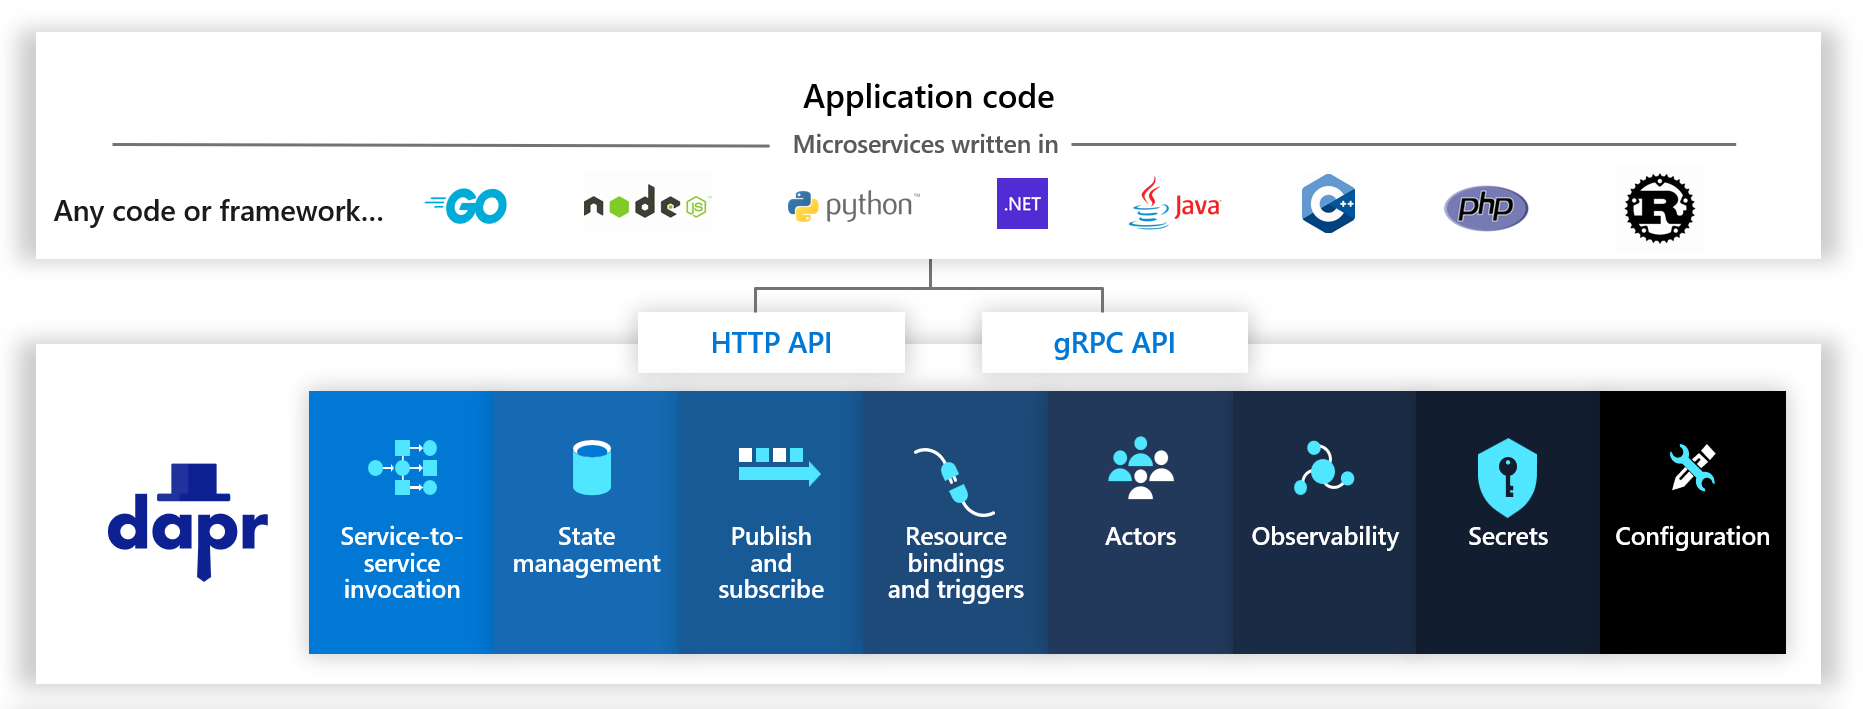
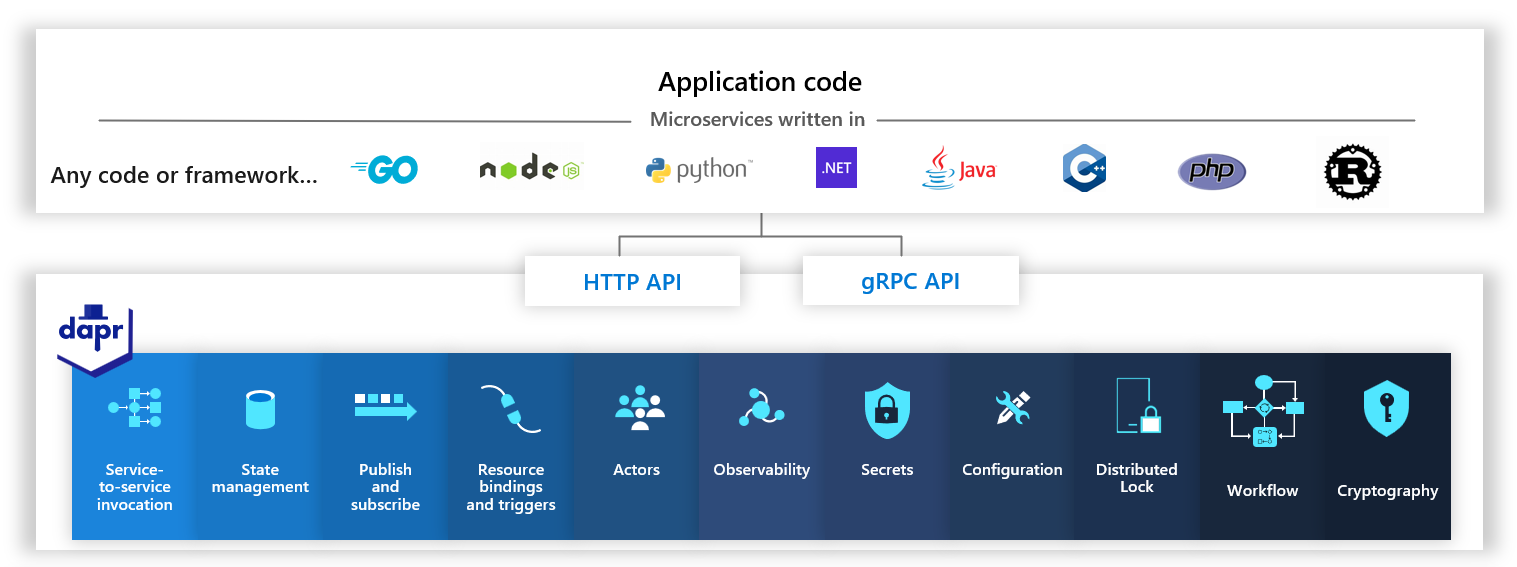
update diagram, loosen up intro

diff --git a/articles/aks/dapr-overview.md b/articles/aks/dapr-overview.md
@@ -3,15 +3,20 @@ title: Dapr extension for Azure Kubernetes Service (AKS) overview
 description: Learn more about using Dapr on your Azure Kubernetes Service (AKS) cluster to develop applications.
 ms.author: nickoman
 ms.topic: article
-ms.date: 10/11/2022
+ms.date: 07/07/2023
 ms.custom: event-tier1-build-2022
 ---
 
 # Dapr
 
-Distributed Application Runtime (Dapr) offers APIs that simplify microservice development and implementation. Running as a sidecar process in tandem with your applications, Dapr APIs abstract away common complexities developers regularly encounter when building distributed applications, such as service discovery, message broker integration, encryption, observability, and secret management. Whether your inter-application communication is direct service-to-service, or pub/sub messaging, Dapr helps you write simple, portable, resilient, and secured microservices.
+[Distributed Application Runtime (Dapr)][dapr-docs] offers APIs that help you write and implement simple, portable, resilient, and secured microservices. Running as a sidecar process in tandem with your applications, Dapr APIs abstract away common complexities you may encounter when building distributed applications, such as:
+- Service discovery
+- Message broker integration
+- Encryption
+- Observability
+- Secret management 
 
-Dapr is incrementally adoptable – the API building blocks can be used as the need arises. Use one, several, or all to develop your application faster.
+Dapr is incrementally adoptable. You can use any of the API building blocks as needed.
 
 :::image type="content" source="./media/dapr-overview/dapr-building-blocks.png" alt-text="Diagram showing how many different code frameworks can interface with the various building blocks of Dapr via HTTP or gRPC.":::
 
@@ -19,14 +24,14 @@ Dapr is incrementally adoptable – the API building blocks can be used as the n
 
 Dapr provides the following set of capabilities to help with your microservice development on AKS:
 
-* Easy provisioning of Dapr on AKS through [cluster extensions][cluster-extensions].
-* Portability enabled through HTTP and gRPC APIs which abstract underlying technologies choices
-* Reliable, secure, and resilient service-to-service calls through HTTP and gRPC APIs
-* Publish and subscribe messaging made easy with support for CloudEvent filtering and “at-least-once” semantics for message delivery
-* Pluggable observability and monitoring through Open Telemetry API collector
-* Works independent of language, while also offering language specific SDKs
-* Integration with VS Code through the Dapr extension
-* [More APIs for solving distributed application challenges][dapr-blocks]
+- Easy provisioning of Dapr on AKS through [cluster extensions][cluster-extensions].
+- Portability enabled through HTTP and gRPC APIs which abstract underlying technologies choices
+- Reliable, secure, and resilient service-to-service calls through HTTP and gRPC APIs
+- Publish and subscribe messaging made easy with support for CloudEvent filtering and “at-least-once” semantics for message delivery
+- Pluggable observability and monitoring through Open Telemetry API collector
+- Works independent of language, while also offering language specific SDKs
+- Integration with VS Code through the Dapr extension
+- [More APIs for solving distributed application challenges][dapr-blocks]
 
 ## Frequently asked questions
 
@@ -36,10 +41,10 @@ A: Where a service mesh is defined as a networking service mesh, Dapr is n
 
 Some common capabilities that Dapr shares with service meshes include:
 
-* Secure service-to-service communication with mTLS encryption
-* Service-to-service metric collection
-* Service-to-service distributed tracing
-* Resiliency through retries
+- Secure service-to-service communication with mTLS encryption
+- Service-to-service metric collection
+- Service-to-service distributed tracing
+- Resiliency through retries
 
 In addition, Dapr provides other application-level building blocks for state management, pub/sub messaging, actors, and more. However, Dapr does not provide capabilities for traffic behavior such as routing or traffic splitting. If your solution would benefit from the traffic splitting a service mesh provides, consider using [Open Service Mesh][osm-docs].  
 
